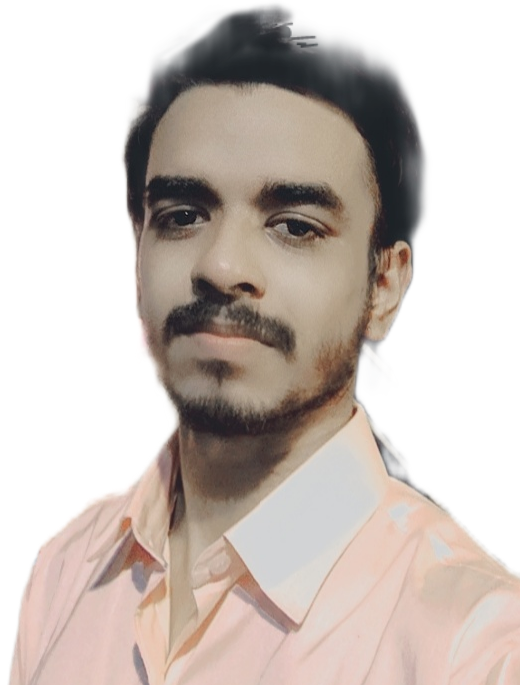
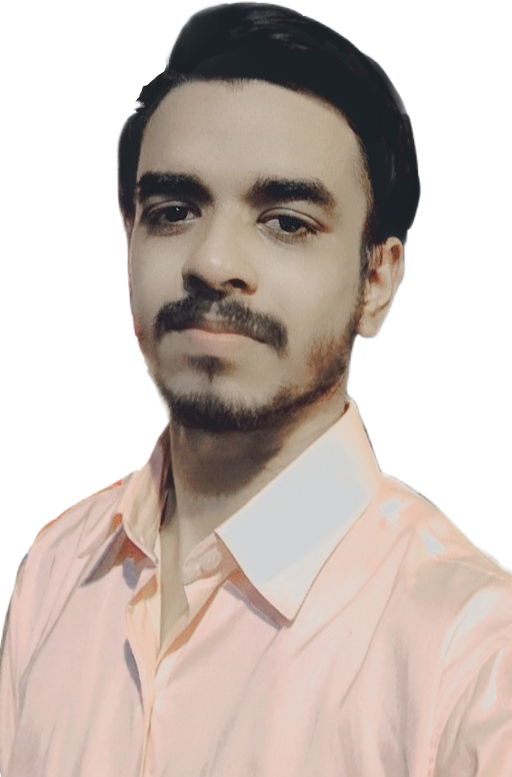
preparing for deploy

diff --git a/src/pages/home/slides/hobby/hobby.jsx b/src/pages/home/slides/hobby/hobby.jsx
@@ -1,4 +1,4 @@
-import React,{useRef,useEffect,useState} from 'react'
+import React, { useRef, useEffect, useState } from 'react'
 import './hobby.css';
 import { v4 as uuidv4 } from 'uuid';
 import ZoomAnim from '../../../../components/zoomAnim/zoomAnim';
@@ -7,23 +7,24 @@ import TextAnim from '../../../../components/textAnim/textAnim';
 import { BsController } from 'react-icons/bs';
 import { MdMovie } from 'react-icons/md';
 import { AiFillProject } from 'react-icons/ai';
+
 function Hobby(props) {
     const textCard_01 = useRef();
     const textCard_02 = useRef();
     const textCard_03 = useRef();
     const textCard_04 = useRef();
     const zoomDiv_01 = useRef();
-    const uuid = useRef([uuidv4(), uuidv4(), uuidv4(),uuidv4(),uuidv4()]);
+    const uuid = useRef([uuidv4(), uuidv4(), uuidv4(), uuidv4(), uuidv4()]);
     useEffect(() => {
         if (props.activePageNumber === props.pageNumber) {
             zoomDiv_01.current.zoomIn();
-            textCard_01.current.anim('Y', '-',300);
-            textCard_02.current.anim('Y', '-',400);
-            textCard_03.current.anim('Y', '-',500);
-            textCard_04.current.anim('X', '-',300);
+            textCard_01.current.anim('Y', '-', 300);
+            textCard_02.current.anim('Y', '-', 400);
+            textCard_03.current.anim('Y', '-', 500);
+            textCard_04.current.anim('X', '-', 300);
         }
         else {
-            zoomDiv_01.current.zoomOut('bottom',.7);
+            zoomDiv_01.current.zoomOut('bottom', .7);
             textCard_01.current.revAnim('Y', '-');
             textCard_02.current.revAnim('Y', '-');
             textCard_03.current.revAnim('Y', '-');
@@ -42,23 +43,23 @@ function Hobby(props) {
         }
     }, [props.activePageNumber])
     return (
-        <div className='hobby-fulldiv' id={props.id} style={{zIndex:props.zIndex}}>
+        <div className='hobby-fulldiv' id={props.id} style={{ zIndex: props.zIndex }}>
             <div className="hobby-flip" id={'hobby-flip'} ></div>
             <ZoomAnim id={uuid.current[0]} className='hobby-zoomdiv' ref={zoomDiv_01}>
                 <div className='hobby-layer' >
                     <div className="hobby-top-div">
                         <TextAnim className='hobby-div-anim' contentClassName="hobby-movies" id={uuid.current[1]} axis={'Y'} direction={'-'} ref={textCard_01}>
-                            <MdMovie className='hobby-icons'/>
+                            <MdMovie className='hobby-icons' />
                             <h1>MOVIES</h1>
                             <p>I enjoy watching both movies and web-series.</p>
                         </TextAnim>
                         <TextAnim className='hobby-div-anim' contentClassName="hobby-gaming" id={uuid.current[2]} axis={'Y'} direction={'-'} ref={textCard_02}>
-                            <BsController className='hobby-icons'/>
+                            <BsController className='hobby-icons' />
                             <h1>GAMES</h1>
                             <p>Other than movies and webseries i like to play both multiplayer and story-driven games.whenever i get free time.</p>
                         </TextAnim>
                         <TextAnim className='hobby-div-anim' contentClassName="hobby-helping-projects" id={uuid.current[3]} axis={'Y'} direction={'-'} ref={textCard_03}>
-                            <AiFillProject className='hobby-icons'/>
+                            <AiFillProject className='hobby-icons' />
                             <h1>HELPING OTHER PROJECTS</h1>
                             <p>I like to help my friends and others in their project using html,css,javascript,react,node,react-native.</p>
                         </TextAnim>

diff --git a/src/pages/home/slides/contactme/contactMe.jsx b/src/pages/home/slides/contactme/contactMe.jsx
@@ -4,7 +4,7 @@ import { v4 as uuidv4 } from 'uuid';
 import ZoomAnim from '../../../../components/zoomAnim/zoomAnim';
 import TextAnim from '../../../../components/textAnim/textAnim';
 import SkillComponent from '../../../../components/skillComponent/skillComponent';
-import { AiFillHtml5 } from 'react-icons/ai';
+import { AiFillHtml5, AiFillLinkedin, AiFillGithub, AiFillTwitterSquare  } from 'react-icons/ai';
 import { IoLogoCss3, IoLogoJavascript } from 'react-icons/io';
 import { SiCplusplus, SiMongodb, SiAdobeillustrator } from 'react-icons/si';
 import { DiReact, DiNodejsSmall } from 'react-icons/di';
@@ -104,13 +104,20 @@ function ContactMe(props) {
                     </div>
             {window.innerWidth>1200&&<div className="contact-me-page-label-wrapper">
                 <TextAnim contentClassName='contact-me-page-label' id={uuid.current[9]} axis={'Y'} direction={'-'} ref={textCard_10}>
-                    <span>03</span>
+                    <span>05</span>
                     <h3>CONTACT ME</h3>
                 </TextAnim>
             </div>}
                 </div>
                 <TextAnim className='contact-me-bottom-div' contentClassName='contact-me-inner-div' id={uuid.current[0]} axis={'Y'} direction={'-'} ref={textCard_01}>
-                    <a href='#'>arnabpratimsaha@gmail.com</a>
+                    <div className="bottom-div_gmail">
+                        <a href='#'>arnabpratimsaha@gmail.com</a>
+                    </div>
+                    <div className="bottom-div_links">
+                        <a className="bottom-div_links__links"><AiFillLinkedin /></a>
+                        <a className="bottom-div_links__links"><AiFillGithub /></a>
+                        <a className="bottom-div_links__links"><AiFillTwitterSquare /></a>
+                    </div>
                 </TextAnim>
             </div>
         </div>

diff --git a/src/pages/home/slides/projects/projects.jsx b/src/pages/home/slides/projects/projects.jsx
@@ -17,7 +17,7 @@ function Projects(props) {
     const downtime = useRef(false);
     useEffect(() => {
         if (props.activePageNumber === props.pageNumber) {
-            textCard_03.current.anim('Y', '+', textCard_02.current.anim('Y', '-', textCard_01.current.anim('X', '+', textCard_05.current.anim('X', '-', 500) + 200) + 200) + 100);
+            textCard_03.current.anim('Y', '+', textCard_02.current.anim('Y', '-', textCard_01.current.anim('X', '+', textCard_05.current.anim('X', '-', 300) + 200) + 200) + 100);
             textCard_04.current.anim('X', '-', 300);
             setTimeout(() => {
                 setCard_01(true);
@@ -68,7 +68,7 @@ function Projects(props) {
                 </div>
                 <div className="project-layer-right-div">
                     <div className="right-grid-div">
-                        <div onClick={() => window.location = 'https://github.com/ArnabPratimSaha/Chatapplication_frontend'} className='grid-card grid-card-01'>
+                        <div onClick={() => window.location = 'https://github.com/ArnabPratimSaha/project_alpha_frontend'} className='grid-card grid-card-01'>
                             <TextAnim className="projects-text-anim" contentClassName=" projects-text-anim-content vivi-fulldiv" id={uuid.current[4]} axis={'X'} direction={'-'} ref={textCard_05}>
                                 <h1>VIVI</h1>
                                 <p>a discord bot to handle messages.</p>

diff --git a/src/components/sidebar/sidebar.jsx b/src/components/sidebar/sidebar.jsx
@@ -8,20 +8,14 @@ function Sidebar(props) {
     const [isLeftDrawerVisible, setIsLeftDrawerVisible] = useState(props.visible)
     const [downtime, setDowntime] = useState(false);
     useEffect(() => {
-        if (downtime) {
-            // setTimeout(() => {
-            //     setIsLeftDrawerVisible(props.visible);
-            //     setDowntime(false);
-            // }, 1000);
-        }
-        else {
+        if(!downtime) {
             setDowntime(true);
             setIsLeftDrawerVisible(props.visible)
             setTimeout(() => {
                 setDowntime(false)
             }, 200);
         }
-    }, [props.visible])
+    }, [props.visible]);
     useEffect(() => {
         if (isLeftDrawerVisible) {
             setTimeout(() => {
@@ -29,7 +23,7 @@ function Sidebar(props) {
                 setTimeout(() => {
                     setIsSecAnimationDone(true);
                     setTimeout(() => {
-                        setIsThirdAnimationDone(true)
+                        setIsThirdAnimationDone(true);
                     }, 200);
                 }, 200);
             }, 200);

diff --git a/public/index.html b/public/index.html
@@ -5,13 +5,16 @@
     <meta name="viewport" content="width=device-width, initial-scale=1" />
     <meta name="theme-color" content="#000000" />
     <meta
-      name="description"
-      content="Web site created using create-react-app"
+      name="Arnab Pratim Saha"
+      content="portfolio of Arnab Pratim Saha - junior engineer."
     />
-    <title>React App</title>
+    <link rel="icon" type="image/png"  href="/favicon_me.png">
+    <title>Arnab Pratim Saha</title>
   </head>
   <body>
-    <noscript>You need to enable JavaScript to run this app.</noscript>
+    <noscript>
+      Please Enable javascript in Order to run this website.for chrome go to <b>setting</b>>search <b>javascript</b> and <b>click</b> it>check <b>Sites can use Javascript</b>
+    </noscript>
     <div id="root"></div>
   </body>
 </html>

diff --git a/src/pages/home/slides/intro/intro.css b/src/pages/home/slides/intro/intro.css
@@ -158,7 +158,7 @@
 }
 .intro-picdiv__inner-div img
 {
-    height: 25rem;
+    height: 30rem;
     width: 20rem;
 }
 @media only screen and (max-width: 1200px) {
@@ -179,12 +179,12 @@
     .intro-picdiv__inner-div
     {
         width: 20rem;
-        height: 15rem;
+        height: 20rem;
     }
     .intro-picdiv__inner-div img
     {
-        height: 15rem;
-        width: 10rem;
+        width: 17rem;
+        height: 25rem;
     }
     .intro-label
     {

diff --git a/src/pages/home/slides/contactme/contactMe.css b/src/pages/home/slides/contactme/contactMe.css
@@ -55,6 +55,7 @@
     display: flex;
     justify-content: center;
     align-items: center;
+    flex-direction: column;
 }
 .contact-me-inner-div a
 {
@@ -102,6 +103,10 @@
     font-family: 'Nunito', sans-serif;
     font-weight: 700;
     color: #333;
+}
+.bottom-div_links
+{
+    
 }
 @media only screen and (max-width: 1200px) {
     .contact-me-inner-div a
